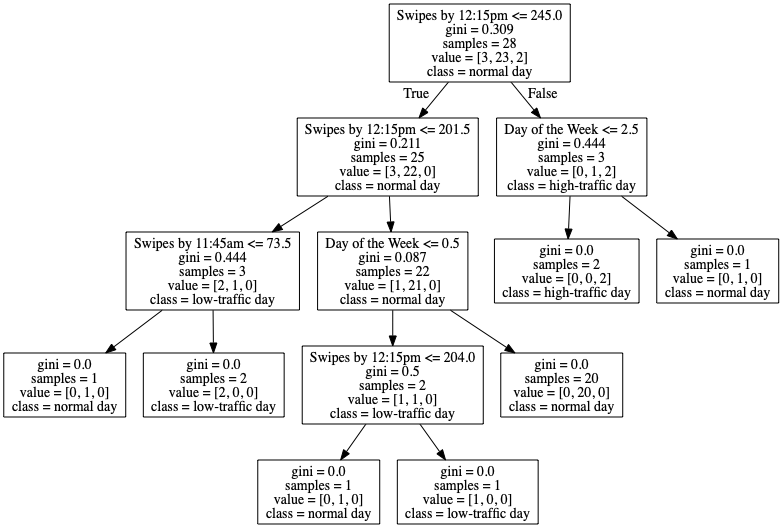
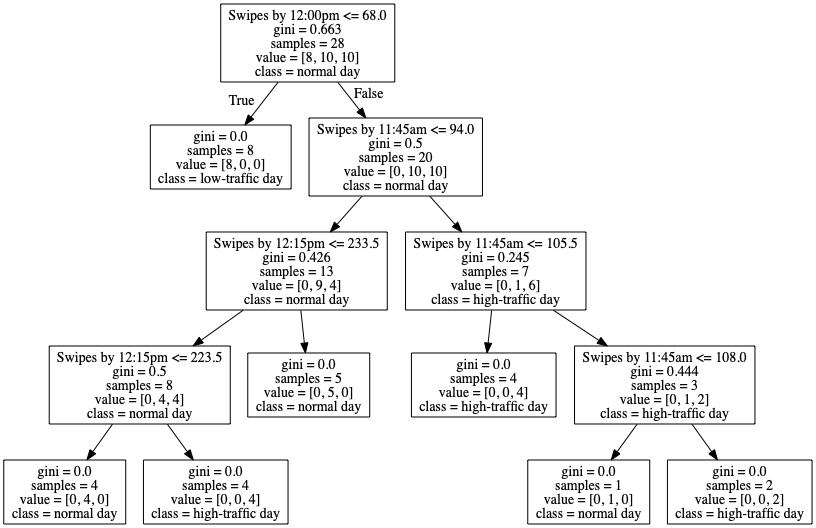
fixed so that total swipes is counted only for lunch times

Changed region(s): [[0.0, 0.3939, 1.0, 0.8182], [0.1841, 0.0, 0.8286, 0.3939], [0.0, 0.8485, 1.0, 1.0]]

diff --git a/hw2_data 2/yaledining.py b/hw2_data 2/yaledining.py
@@ -9,6 +9,9 @@ TOTAL_DAYS = 28
 TIME1 = 705 # 11:45 in minutes
 TIME2 = 720 # 12:00 in minutes
 TIME3 = 735 # 12:15 in minutes
+LUNCH_START_WEEKDAY = 690 # lunch starts at 11:30am on weekdays
+LUNCH_START_WEEKEND = 660 # lunch starts at 11:00am on weekends
+LUNCH_END = 810 # lunch ends at 1:30 every day
 
 # order of data in files
 # building_codes.csv = id, code, name, type
@@ -31,7 +34,13 @@ def get_mean_traffic(bldg_id):
         readCSV2 = csv.reader(csvfile2, delimiter=',')
         for row in readCSV2:
             if row[4] == bldg_id and row[5] == "1":
-              total_swipes += 1
+                # different lunch hours for weekend and weekday
+                if row[1] == "1" or row[1] == "2" or row[1] == "3" or row[1] == "4" or row[1] == "5":
+                    if LUNCH_START_WEEKDAY <= int(row[3]) <= LUNCH_END:
+                        total_swipes += 1
+                if row[1] == "6" or row[1] == "0":
+                    if LUNCH_START_WEEKEND <= int(row[3]) <= LUNCH_END:
+                        total_swipes += 1 
 
     mean_traffic = total_swipes / TOTAL_DAYS
     low_traffic_threshold = mean_traffic * 0.95
@@ -60,18 +69,28 @@ def assign_training_labels_samples(bldg_id, low_traffic_threshold, high_traffic_
                 day_of_the_week = int(row[1])
                 time_of_day = int(row[3])
 
-                # increment total swipes for the day
-                total_swipes[day] += 1
-
-                # assigning sample data
+                #assigning sample data and incrementing total swipes for label use later
                 samples[day][0] = day_of_the_week
 
-                if time_of_day <= TIME1:
-                    samples[day][1] += 1 # swipes by 11:45 (incl 11:45)
-                if time_of_day <= TIME2:
-                    samples[day][2] += 1 # swipes by 12:00 (incl 12:00)
-                if time_of_day <= TIME3:
-                    samples[day][3] += 1 # swipes by 12:15 (incl 12:15)
+                # different lunch hours for weekend and weekday
+                if row[1] == "1" or row[1] == "2" or row[1] == "3" or row[1] == "4" or row[1] == "5":
+                    if LUNCH_START_WEEKDAY <= time_of_day <= LUNCH_END:
+                        total_swipes[day] += 1
+                        if time_of_day <= TIME1:
+                            samples[day][1] += 1 # swipes by 11:45 (incl 11:45)
+                        if time_of_day <= TIME2:
+                            samples[day][2] += 1 # swipes by 12:00 (incl 12:00)
+                        if time_of_day <= TIME3:
+                            samples[day][3] += 1 # swipes by 12:15 (incl 12:15)
+                if row[1] == 6 or row[1] == 0:
+                    if LUNCH_START_WEEKEND <= row[3] <= LUNCH_END:
+                        total_swipes[day] += 1
+                        if time_of_day <= TIME1:
+                            samples[day][1] += 1 # swipes by 11:45 (incl 11:45)
+                        if time_of_day <= TIME2:
+                            samples[day][2] += 1 # swipes by 12:00 (incl 12:00)
+                        if time_of_day <= TIME3:
+                            samples[day][3] += 1 # swipes by 12:15 (incl 12:15)
 
     # assigning labels for the sample data
     for z in range(TOTAL_DAYS):
@@ -90,7 +109,7 @@ def decision_tree(samples, labels, bldg_id, given):
 
     prediction = clf.predict(given)[0]
 
-    #graphviz
+    #graphviz https://scikit-learn.org/stable/modules/generated/sklearn.tree.export_graphviz.html
     output_file = str(bldg_id) + ".dot"
     
     tree.export_graphviz(clf, out_file=output_file, feature_names=["Day of the Week", "Swipes by 11:45am", "Swipes by 12:00pm", "Swipes by 12:15pm"], class_names=["low-traffic day", "normal day", "high-traffic day"])
